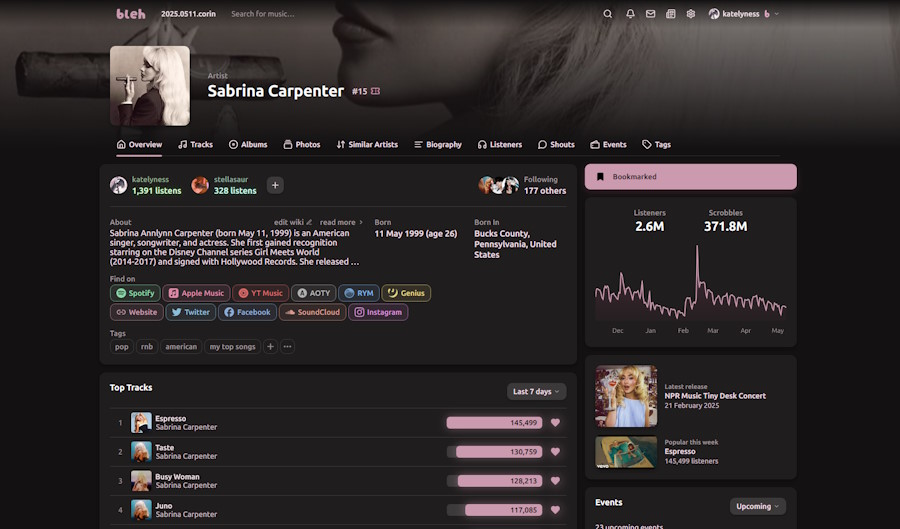
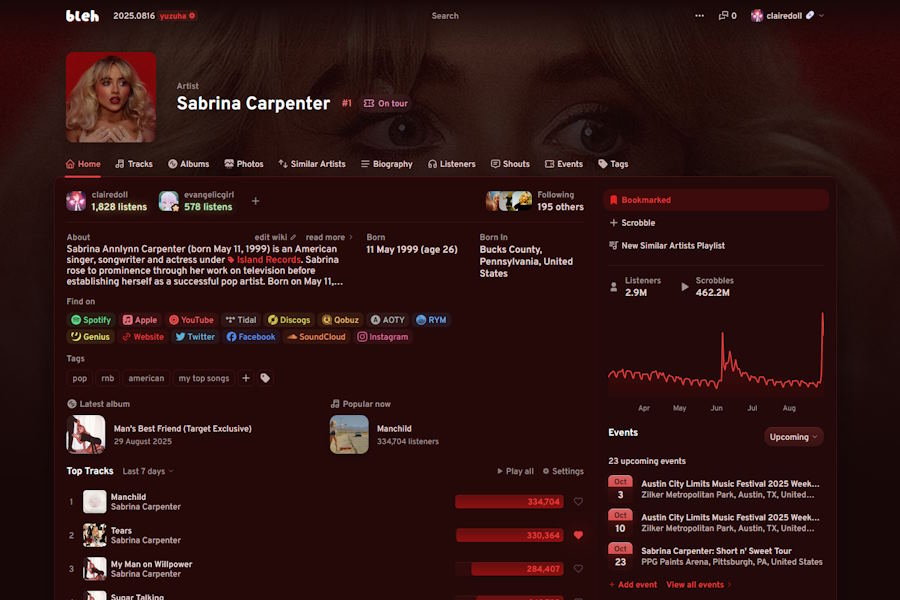
feat: update site early for preparation

diff --git a/index.html b/index.html
@@ -161,7 +161,7 @@
     <main class="panel-container">
         <section class="side-by-side content right span cut under-header" style="margin-bottom: unset; padding-top: 100px; background-image: linear-gradient(180deg, hsl(var(--h4), 30%), transparent)">
             <div class="text flex flex-column flex-gap" style="--gap: 5px">
-                <h1 class="medium logo"><a href="/" style="text-decoration: none">katelyn.moe</a></h1>
+                <h1 class="medium logo"><a href="https://katelyn.moe" style="text-decoration: none">katelyn.moe</a></h1>
                 <h1 class="big bleh">Music stats<br>viewed from<br>a new lens</h1>
                 <h4>A fresh coat of paint for Last.fm bringing you<br>closer to the music you love ~</h4>
                 <div class="btn-row" style="gap: 10px">
@@ -195,7 +195,7 @@
                             bleh Settings
                             <label>
                                 <i class="icon w-16" data-lucide="swatch-book"></i>
-                                Void
+                                Light
                             </label>
                         </figcaption>
                     </figure>
@@ -219,10 +219,6 @@
                                 <i class="icon w-16" data-lucide="swatch-book"></i>
                                 Void
                             </label>
-                            <label>
-                                <i class="icon w-16" data-lucide="palette"></i>
-                                Custom colour
-                            </label>
                         </figcaption>
                     </figure>
                     <figure>
@@ -234,11 +230,7 @@
                             Library (Artists)
                             <label>
                                 <i class="icon w-16" data-lucide="swatch-book"></i>
-                                Void
-                            </label>
-                            <label>
-                                <i class="icon w-16" data-lucide="palette"></i>
-                                Custom colour
+                                Dark
                             </label>
                         </figcaption>
                     </figure>
@@ -253,10 +245,6 @@
                                 <i class="icon w-16" data-lucide="swatch-book"></i>
                                 Light
                             </label>
-                            <label>
-                                <i class="icon w-16" data-lucide="palette"></i>
-                                Custom colour
-                            </label>
                         </figcaption>
                     </figure>
                     <figure>
@@ -268,11 +256,20 @@
                             Gallery
                             <label>
                                 <i class="icon w-16" data-lucide="swatch-book"></i>
-                                Void
+                                Dark
                             </label>
+                        </figcaption>
+                    </figure>
+                    <figure>
+                        <div class="main-image">
+                            <img src="/img/bleh-lotus.jpg" loading="lazy">
+                        </div>
+                        <figcaption>
+                            <i class="icon w-16" data-lucide="music"></i>
+                            Music-related settings
                             <label>
-                                <i class="icon w-16" data-lucide="palette"></i>
-                                Custom colour
+                                <i class="icon w-16" data-lucide="swatch-book"></i>
+                                Light
                             </label>
                         </figcaption>
                     </figure>
@@ -287,10 +284,6 @@
                                 <i class="icon w-16" data-lucide="swatch-book"></i>
                                 Light
                             </label>
-                            <label>
-                                <i class="icon w-16" data-lucide="palette"></i>
-                                Auto-coloured from cover
-                            </label>
                         </figcaption>
                     </figure>
                     <figure>
@@ -302,11 +295,7 @@
                             Track
                             <label>
                                 <i class="icon w-16" data-lucide="swatch-book"></i>
-                                Ink
-                            </label>
-                            <label>
-                                <i class="icon w-16" data-lucide="palette"></i>
-                                Custom colour
+                                Ash
                             </label>
                         </figcaption>
                     </figure>
@@ -323,7 +312,7 @@
                             </label>
                             <label>
                                 <i class="icon w-16" data-lucide="palette"></i>
-                                Custom colour
+                                Increased card vibrancy
                             </label>
                         </figcaption>
                     </figure>
@@ -336,11 +325,7 @@
                             Obsession
                             <label>
                                 <i class="icon w-16" data-lucide="swatch-book"></i>
-                                Void
-                            </label>
-                            <label>
-                                <i class="icon w-16" data-lucide="palette"></i>
-                                Auto-coloured from cover
+                                Dark
                             </label>
                         </figcaption>
                     </figure>

diff --git a/css/bleh.css b/css/bleh.css
@@ -133,7 +133,7 @@ figcaption {
     display: flex;
     position: relative;
     width: 600px;
-    aspect-ratio: 375 / 225;
+    aspect-ratio: 3 / 2;
 }
 .has-gallery .icon-btn {
     position: absolute;
